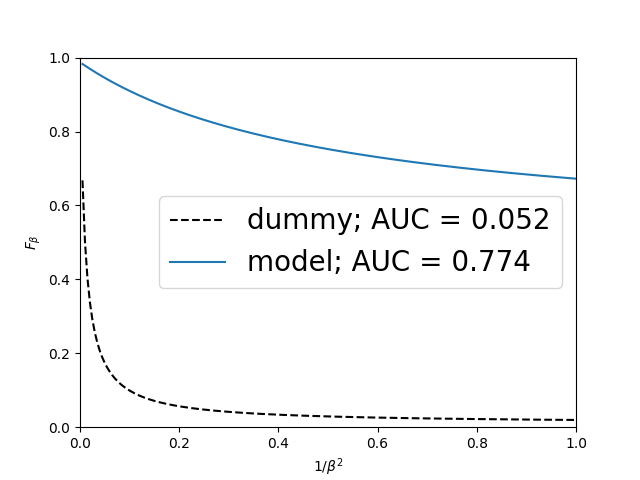
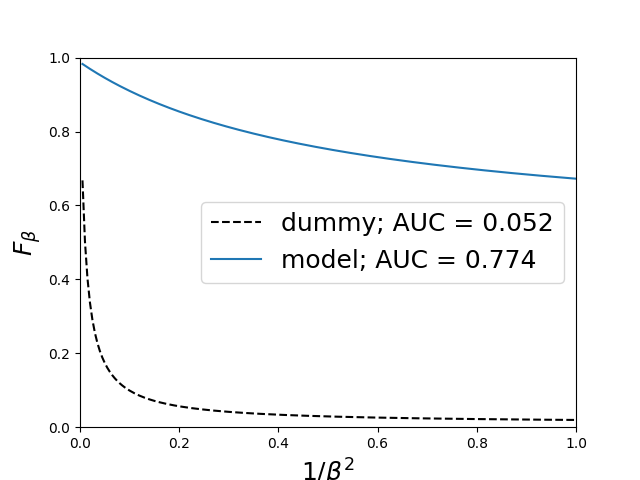
-

Changed region(s): [[0.2812, 0.4062, 0.875, 0.5938], [0.4688, 0.9375, 0.5625, 1.0], [0.0, 0.4688, 0.0625, 0.5312]]

diff --git a/Classification/src/fbeta_recall.py b/Classification/src/fbeta_recall.py
@@ -74,8 +74,8 @@ def fbeta(network_model, batch_size, n_epochs, optimizer, data_set='heridal', tr
         label = 'model; AUC = {:.3f}'
         dummy_label = 'dummy; AUC = {:.3f}'
         plt.figure()
-        plt.rc('axes', titlesize=20)
-        plt.rc('legend', fontsize=20) 
+        plt.rc('axes', labelsize=18)
+        plt.rc('legend', fontsize=18) 
         plt.plot(1 / beta2_array, dummy, 'k--', label=dummy_label.format(dummy_area))
         plt.plot(1 / beta2_array, np.asarray(f_beta_list), label=label.format(area))
         plt.xlim([0, 1])
